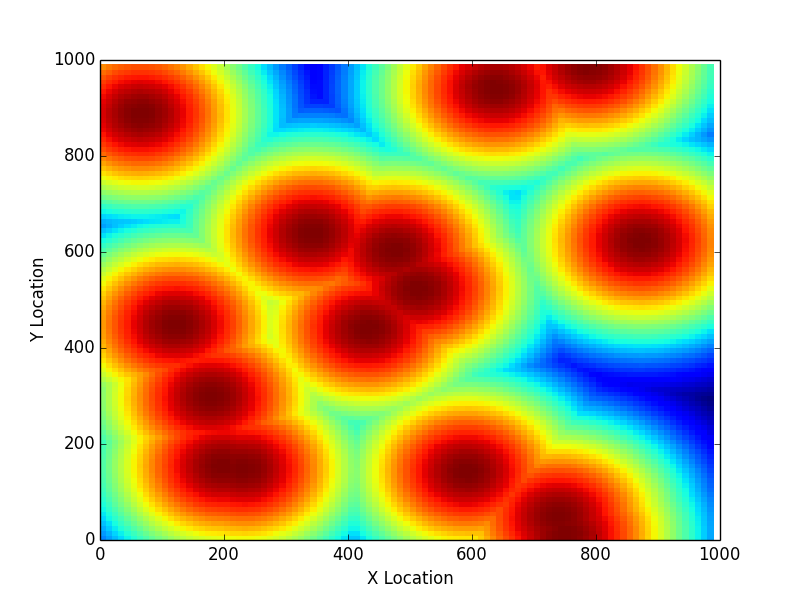
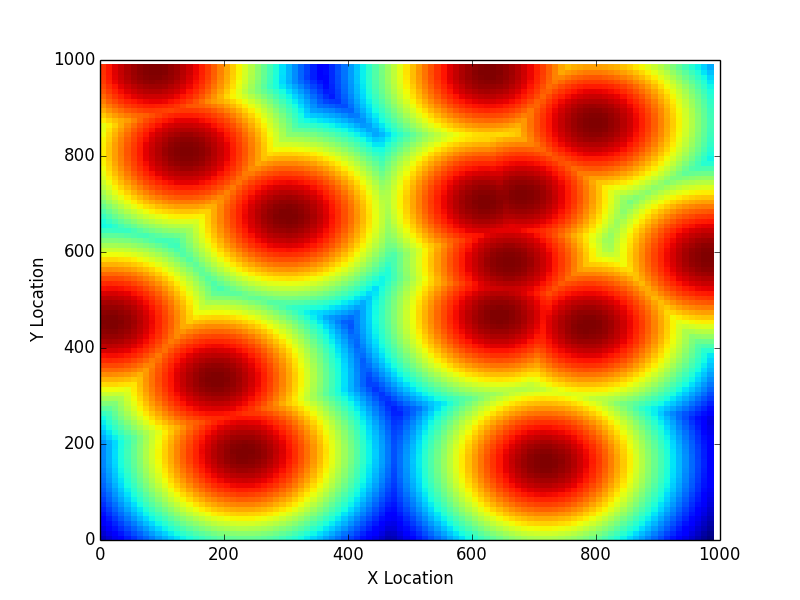
Change functions used for sensor quality and for risk

diff --git a/rover/riskgrid.py b/rover/riskgrid.py
@@ -62,13 +62,14 @@ class RiskGrid(object):
         return max_risk
 
     def get_risk_3d(self, x, y, z):
-        init_risk = self.get_risk(x, y)
+        # init_risk = self.get_risk(x, y)
 
-        actual_risk = init_risk * (
-            1 - math.pow(z - self.problem.min_height, 2) /
-            math.pow(init_risk * (
-                self.problem.max_height -
-                self.problem.min_height), 2))
+        # actual_risk = init_risk * (
+        #     1 - math.pow(z - self.problem.min_height, 2) /
+        #     math.pow(init_risk * (
+        #         self.problem.max_height -
+        #         self.problem.min_height), 2))
+        actual_risk = 0
 
         return actual_risk
 

diff --git a/rover/planner.py b/rover/planner.py
@@ -194,8 +194,9 @@ class PlannerGaussian(PlannerInterface):
 
     def determine_height(self, x, y):
         risk_sq_func = self.get_risk_sq_func(x, y)
-        res = opt.fsolve(risk_sq_func, self.problem.max_height)
-        return int(max(res))
+        res = opt.minimize(risk_sq_func, self.problem.min_height)
+        print res["x"]
+        return int(max(res["x"]))
 
 
 
